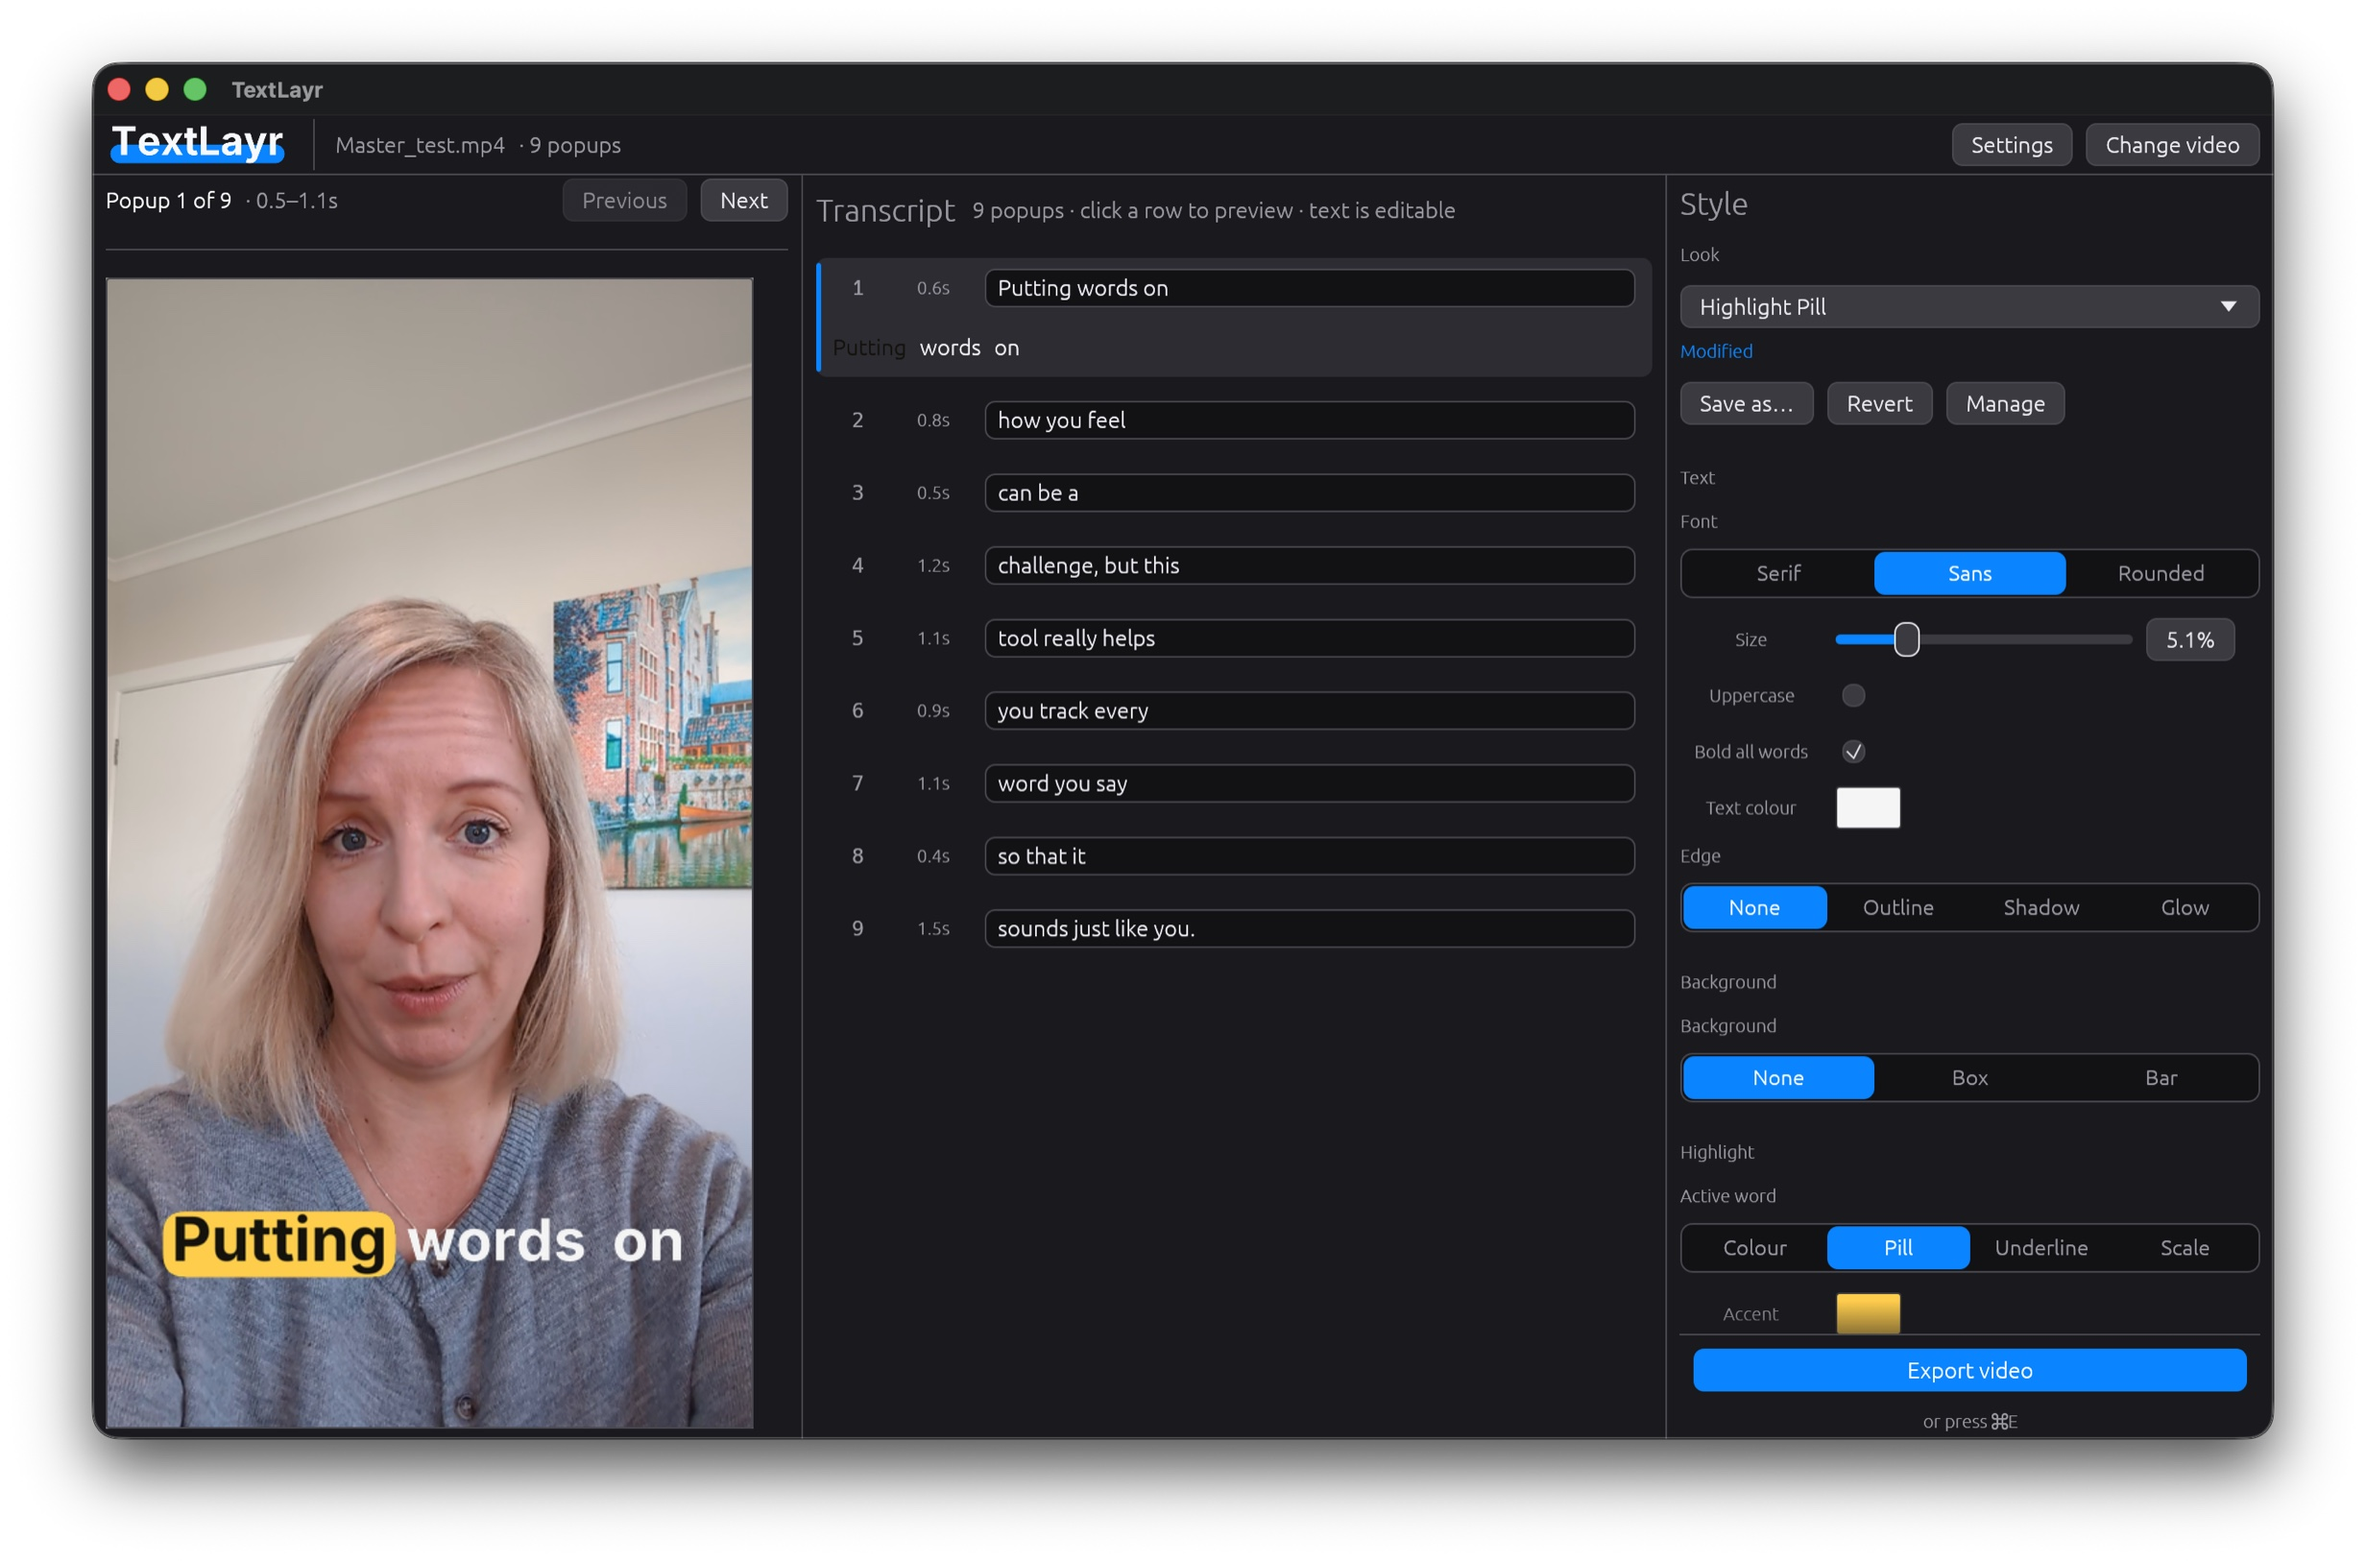
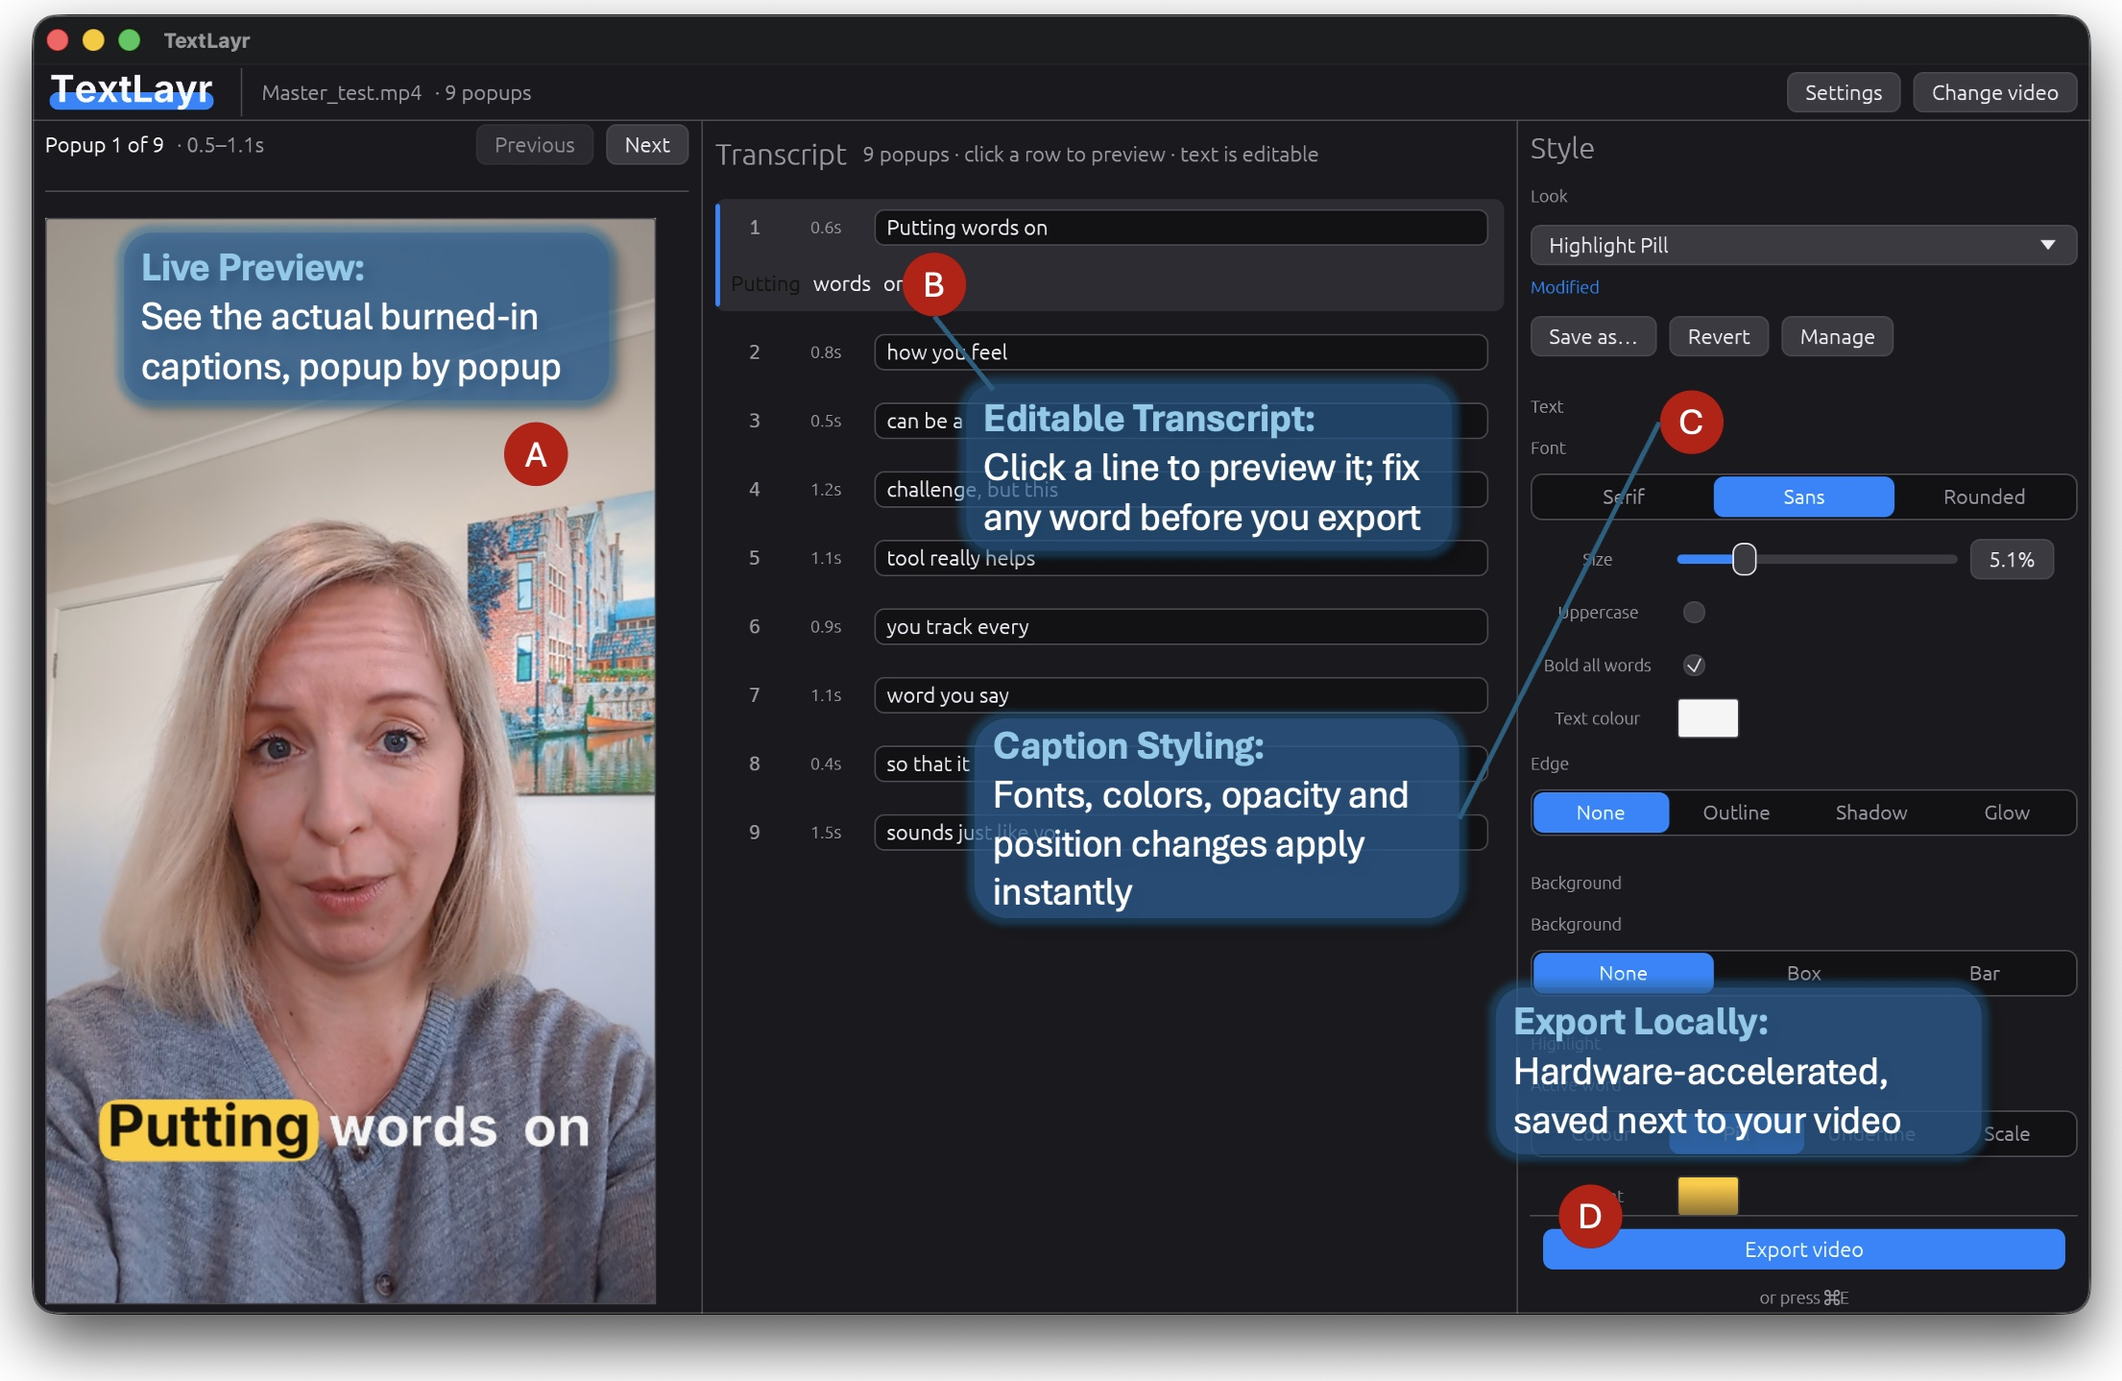
Use the annotated overview screenshot and harden DMG packaging
The release runner hit a transient hdiutil convert failure, so retry once and surface the real error if it happens again.

diff --git a/docs/index.html b/docs/index.html
@@ -205,7 +205,7 @@
       </div>
 
       <figure class="shot">
-        <img src="screenshots/overview.jpg" width="2464" height="1626" loading="lazy"
+        <img src="screenshots/overview.jpg" width="2210" height="1438" loading="lazy"
              alt="The TextLayr window with the live preview, editable transcript, single-panel style inspector and export button.">
         <figcaption>Live preview, editable transcript, styling, and export — all in one window.</figcaption>
       </figure>
